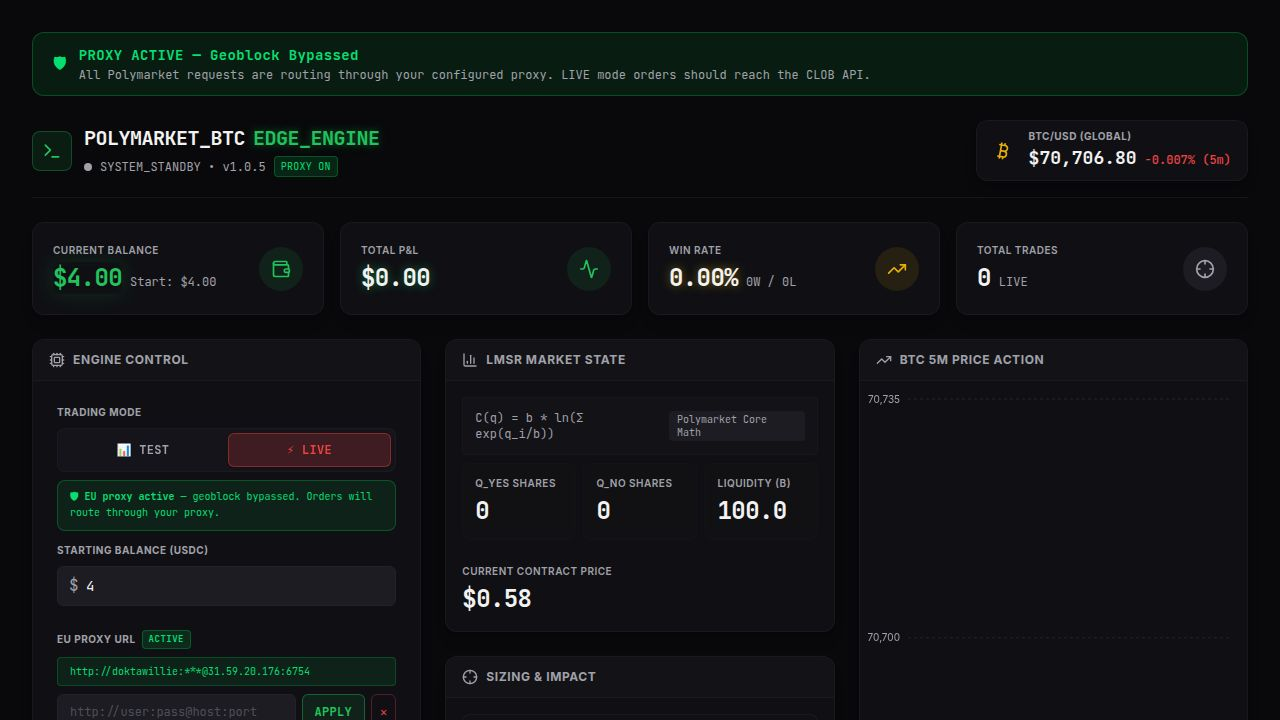
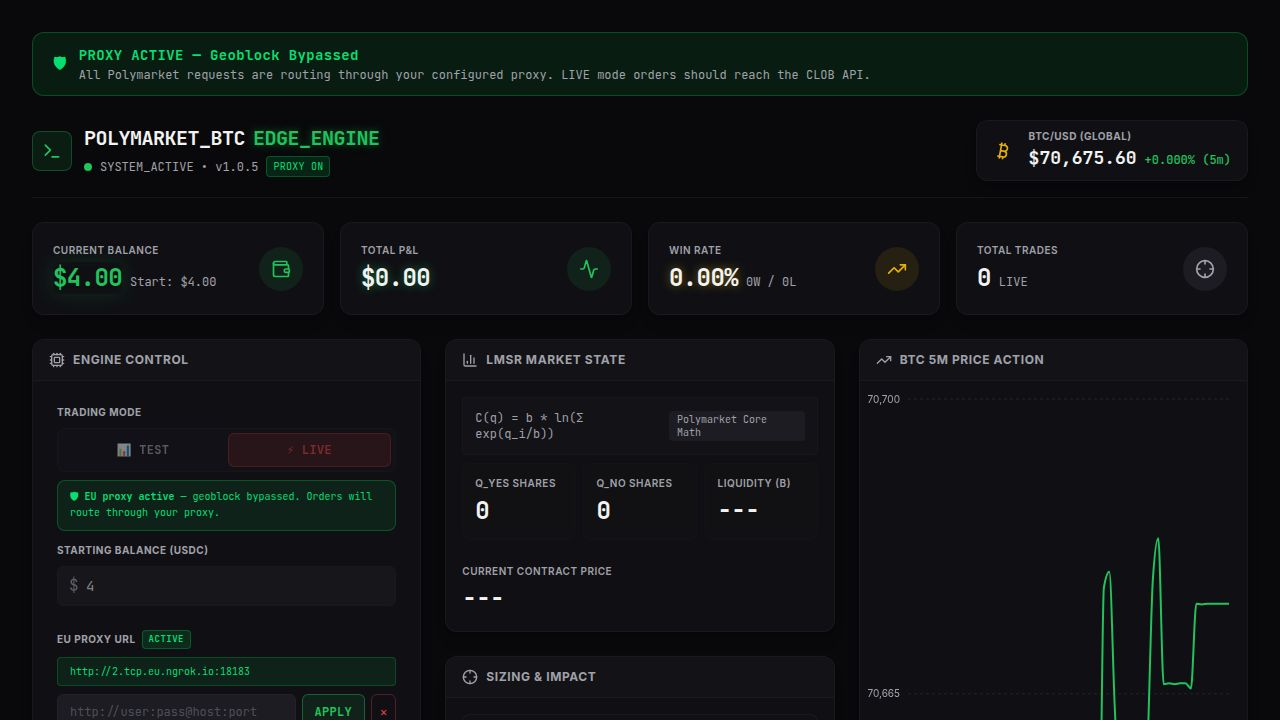
Add feature to connect to a local API server
Integrates a new "Local API Server" section into the dashboard, allowing users to specify a custom API endpoint. Modifies `custom-fetch.ts` to prepend this custom URL to requests when the `CUSTOM_API_URL` is set in localStorage.

Replit-Commit-Author: Agent
Replit-Commit-Session-Id: 1fd27e89-5654-4de9-af55-5fc17ae39761
Replit-Commit-Checkpoint-Type: full_checkpoint
Replit-Commit-Event-Id: 3539e9db-ff27-4b4f-aaef-e57c21107d42
Replit-Commit-Screenshot-Url: https://storage.googleapis.com/screenshot-production-us-central1/2219f5b5-ab01-4dc6-a503-d0ec582fa499/1fd27e89-5654-4de9-af55-5fc17ae39761/E6rooZd
Replit-Helium-Checkpoint-Created: true

diff --git a/artifacts/polymarket-bot/src/pages/Dashboard.tsx b/artifacts/polymarket-bot/src/pages/Dashboard.tsx
@@ -43,6 +43,12 @@ export default function Dashboard() {
   const [sizingMode, setSizingModeLocal] = useState<"flat" | "kelly">("flat");
   const [proxyInput, setProxyInput] = useState("");
   const [proxyApplied, setProxyApplied] = useState(false);
+  const [localApiInput, setLocalApiInput] = useState(() =>
+    localStorage.getItem("CUSTOM_API_URL") ?? ""
+  );
+  const [localApiSaved, setLocalApiSaved] = useState(() =>
+    Boolean(localStorage.getItem("CUSTOM_API_URL"))
+  );
   const [proxyTestResult, setProxyTestResult] = useState<{
     proxyIp: string | null;
     proxyCountry: string | null;
@@ -96,6 +102,25 @@ export default function Dashboard() {
     mutations.proxyTest.mutate(undefined, {
       onSuccess: (data) => setProxyTestResult(data),
     });
+  };
+
+  const handleLocalApiSave = () => {
+    const url = localApiInput.trim().replace(/\/+$/, "");
+    if (url) {
+      localStorage.setItem("CUSTOM_API_URL", url);
+      setLocalApiSaved(true);
+    } else {
+      localStorage.removeItem("CUSTOM_API_URL");
+      setLocalApiSaved(false);
+    }
+    window.location.reload();
+  };
+
+  const handleLocalApiClear = () => {
+    localStorage.removeItem("CUSTOM_API_URL");
+    setLocalApiInput("");
+    setLocalApiSaved(false);
+    window.location.reload();
   };
 
   const handleSizingToggle = (newMode: "flat" | "kelly") => {
@@ -501,6 +526,62 @@ export default function Dashboard() {
                     ? "Click TEST to verify the exit IP is outside the US."
                     : "Paste your London/EU proxy URL. HTTP and SOCKS5 both work."}
                 </p>
+              </div>
+
+              {/* Local API Server Override */}
+              <div className="space-y-2">
+                <label className="text-[10px] text-muted-foreground uppercase font-bold tracking-wider flex items-center gap-1.5">
+                  Local API Server
+                  {localApiSaved && (
+                    <span className="text-green-400 font-mono text-[9px] bg-green-500/15 border border-green-500/30 px-1.5 py-0.5 rounded">
+                      ACTIVE
+                    </span>
+                  )}
+                </label>
+
+                {localApiSaved && (
+                  <div className="text-[10px] font-mono text-green-400 bg-green-500/10 border border-green-500/25 rounded px-3 py-1.5 truncate">
+                    {localStorage.getItem("CUSTOM_API_URL")}
+                  </div>
+                )}
+
+                <div className="flex gap-1.5">
+                  <input
+                    type="text"
+                    placeholder="https://xxxx.ngrok-free.app"
+                    value={localApiInput}
+                    onChange={(e) => { setLocalApiInput(e.target.value); setLocalApiSaved(false); }}
+                    className="flex-1 bg-input border border-border rounded-md h-9 px-3 font-mono text-[11px] focus:outline-none focus:ring-1 focus:ring-primary focus:border-primary placeholder:text-muted-foreground/40"
+                  />
+                  <TerminalButton
+                    onClick={handleLocalApiSave}
+                    className="h-9 px-3 text-[11px] font-mono whitespace-nowrap"
+                  >
+                    {localApiSaved ? "✓ SAVED" : "SAVE"}
+                  </TerminalButton>
+                  {localApiSaved && (
+                    <TerminalButton
+                      onClick={handleLocalApiClear}
+                      variant="danger"
+                      className="h-9 px-3 text-[11px] font-mono"
+                    >
+                      CLEAR
+                    </TerminalButton>
+                  )}
+                </div>
+
+                <div className="bg-secondary/30 border border-border/50 rounded-lg px-3 py-2 space-y-1">
+                  <p className="text-[10px] font-mono text-yellow-400 font-bold">Bypass geoblock without any proxy</p>
+                  <p className="text-[10px] font-mono text-muted-foreground leading-relaxed">
+                    Run the API server on your own machine with Proton VPN, then expose it with:
+                  </p>
+                  <code className="block text-[10px] font-mono text-primary/90 bg-background/50 rounded px-2 py-1 mt-1">
+                    ngrok http 8080
+                  </code>
+                  <p className="text-[10px] font-mono text-muted-foreground leading-relaxed">
+                    Paste the <span className="text-foreground">https://xxxx.ngrok-free.app</span> URL above. All bot API calls will route through your VPN machine.
+                  </p>
+                </div>
               </div>
 
               {/* Sizing Toggle */}

diff --git a/lib/api-client-react/src/custom-fetch.ts b/lib/api-client-react/src/custom-fetch.ts
@@ -271,10 +271,37 @@ async function parseSuccessBody(
   }
 }
 
+/**
+ * If the user has set a custom local API server URL (stored in localStorage
+ * as CUSTOM_API_URL), rewrite relative API paths to point to that server.
+ * This lets the Replit dashboard talk to a locally-running API server that
+ * has unrestricted outbound access (e.g. via Proton VPN).
+ */
+function applyCustomBase(input: RequestInfo | URL): RequestInfo | URL {
+  let customBase: string | null = null;
+  try {
+    if (typeof localStorage !== "undefined") {
+      customBase = localStorage.getItem("CUSTOM_API_URL");
+    }
+  } catch { /* localStorage unavailable (SSR, etc.) */ }
+
+  if (!customBase) return input;
+
+  const url = resolveUrl(input as RequestInfo);
+  // Only rewrite relative paths — absolute URLs are left untouched
+  if (url.startsWith("http://") || url.startsWith("https://")) return input;
+
+  const base = customBase.replace(/\/+$/, "");
+  const path = url.startsWith("/") ? url : `/${url}`;
+  return `${base}${path}`;
+}
+
 export async function customFetch<T = unknown>(
   input: RequestInfo | URL,
   options: CustomFetchOptions = {},
 ): Promise<T> {
+  input = applyCustomBase(input);
+
   const { responseType = "auto", headers: headersInit, ...init } = options;
 
   const method = resolveMethod(input, init.method);
